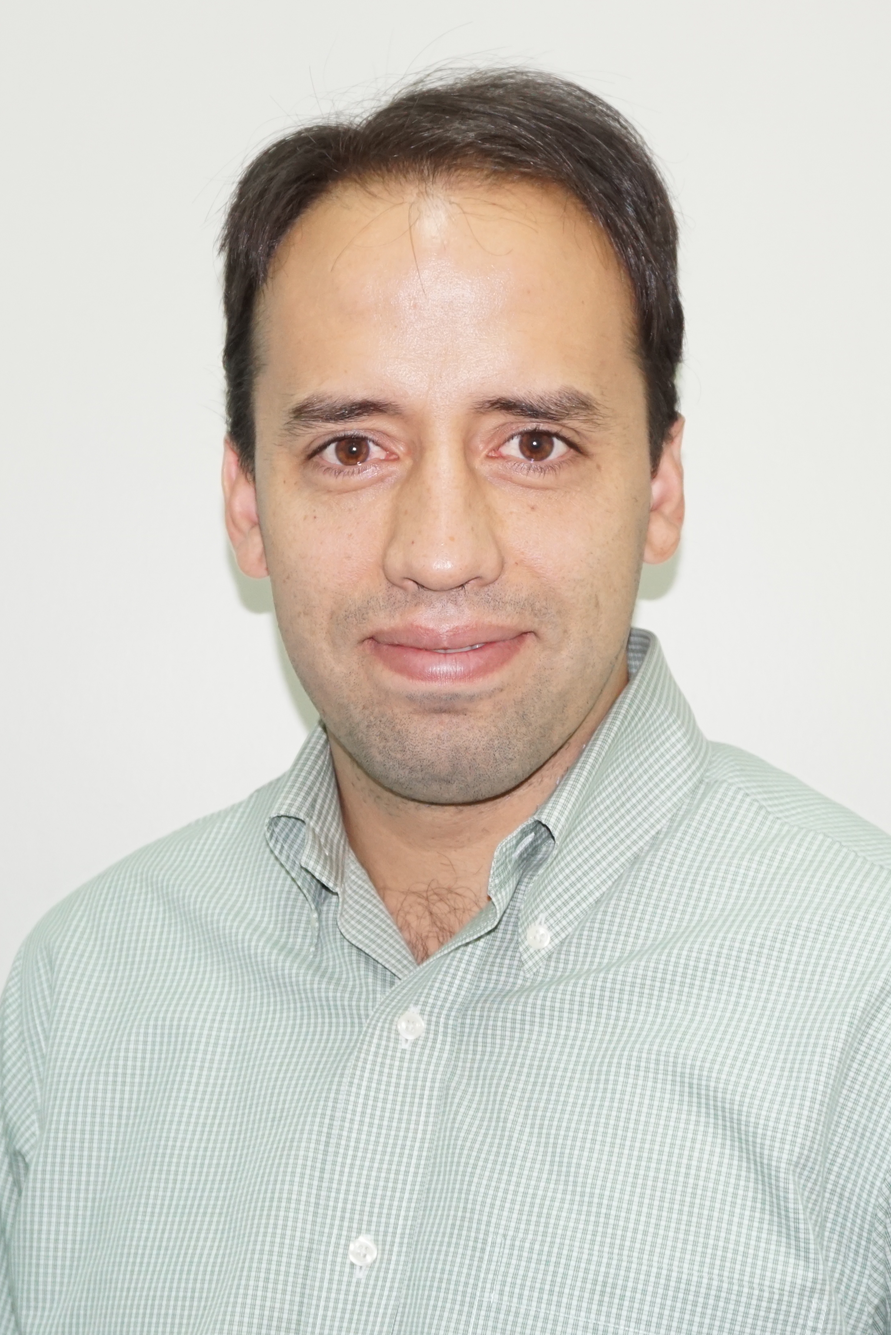
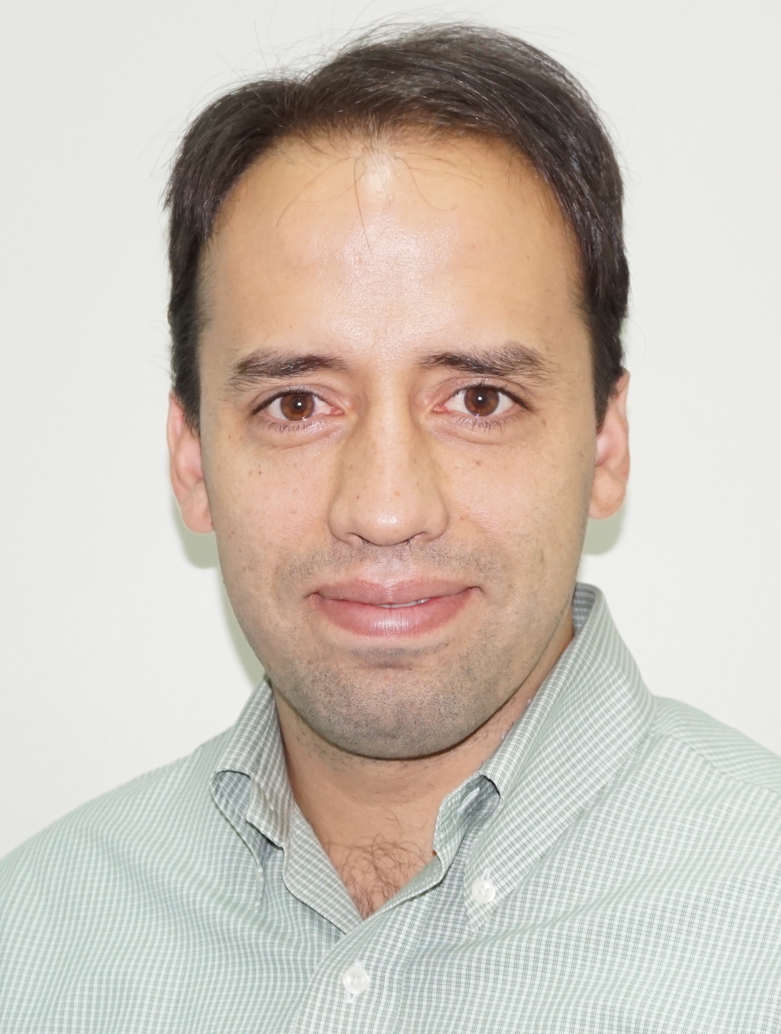
updated people

diff --git a/_site/people/index.html b/_site/people/index.html
@@ -46,17 +46,24 @@
   <figcaption><strong>Sep. 2019 </strong>- Left to right: Rubén, Mauricio, Diego, Iván, Jonathan, Felipe H., Ignacio, Vanessa, Federico, Johan, Felipe R. </figcaption>
 </figure>
 
-<h3 id="principal-investigator">Principal Investigator</h3>
+<h3 id="prof-felipe-herrera"><a href="/about/">Prof. Felipe Herrera</a></h3>
 
-<p><a href="/about/">Prof. Felipe Herrera</a></p>
+<ul>
+  <li>Universidad de Santiago, Research Professor, 2014 - present</li>
+  <li>Harvard University, Postdoctoral Researcher, 2012-2014</li>
+  <li>University of British Columbia, PhD 2012</li>
+</ul>
 
-<p>University of British Columbia, PhD 2012</p>
+<h1 id="honors--awards">Honors &amp; Awards</h1>
 
-<p>Harvard University, Postdoctoral Researcher, 2012-2014</p>
+<ul>
+  <li>Inserción en la Academia Award, Conicyt, 2014</li>
+  <li>Four Year Fellowship, University of British Columbia, 2009</li>
+  <li>Gladys Estella Laird Fellowship, University of British Columbia, 2007</li>
+  <li>Best Student of Chemistry Award, Universidad de Chile, 2007</li>
+</ul>
 
-<p>Universidad de Santiago, Research Professor, 2014 - present</p>
-
-<p><a href="http://localhost:4000/assets/cv/cvfelipe.pdf">Full CV</a></p>
+<p><a href="http://localhost:4000/assets/cv/cvfelipe.pdf">[CV Felipe 2019]</a></p>
 
 <h3 id="postdoctoral-researchers">Postdoctoral Researchers</h3>
 

diff --git a/about.md b/about.md
@@ -3,11 +3,15 @@ layout: page
 title: 'Brief Bio'
 permalink: /about/
 ---
+
+<img src="{{absolute_url}}/assets/img/group-pics/fherrera2.JPG" alt="fherrera" width="250"/>
+
 Felipe obtained a BSc in Chemistry from Universidad de Chile in 2007. Together with his wife, he moved to beautiful Vancouver to carry out doctoral studies in the group of [Roman Krems][krems-website] at the University of British Columbia, where he obtained a [PhD in Chemistry][herrera-thesis] in 2012. After a brief joint postdoctoral position with [Sabre Kais][kais-website] at Purdue University and [Alán Aspuru-Guzik][alan-website] at Harvard University, he continued his postdoctoral work in the Aspuru-Guzik group. In 2014, Felipe was awarded a competitive Conicyt PAI grant to start his current independent research position at the [Department of Physics][fisica-usach] in USACH. For more information, please see [Felipe's CV][herrera-cv].
 
 Felipe is also a husband and a father of a curious kid who enjoys [stepping into his dad´s office][andres-photo] to teach him about anharmonic potential energy surfaces.
 
 
+[fherrera-pic]:{{ "/assets/img/group-pics/fherrera2.JPG" | absolute_url }} 
 
 [research]: {{ "/research-areas/" | absolute_url }}
 [andres-photo]: {{ "/assets/img/andres-photo.jpeg" | absolute_url }}

diff --git a/people.md b/people.md
@@ -13,19 +13,28 @@ permalink: /people/
 
 
 
-### Principal Investigator
+### [Prof. Felipe Herrera](/about/) 
+
+ - Universidad de Santiago, Research Professor, 2014 - present
+ - Harvard University, Postdoctoral Researcher, 2012-2014
+ - University of British Columbia, PhD 2012
+  
+# Honors & Awards
+ 
+ - Inserción en la Academia Award, Conicyt, 2014
+ - Four Year Fellowship, University of British Columbia, 2009
+ - Gladys Estella Laird Fellowship, University of British Columbia, 2007
+ - Best Student of Chemistry Award, Universidad de Chile, 2007
+ 
+ 
+ [[CV Felipe 2019]] [herrera-cv]
+ 
 
 
-[Prof. Felipe Herrera](/about/)
-
-University of British Columbia, PhD 2012
-
-Harvard University, Postdoctoral Researcher, 2012-2014
-
-Universidad de Santiago, Research Professor, 2014 - present
 
 
-[Full CV] [herrera-cv]
+
+
 
 ### Postdoctoral Researchers
 
